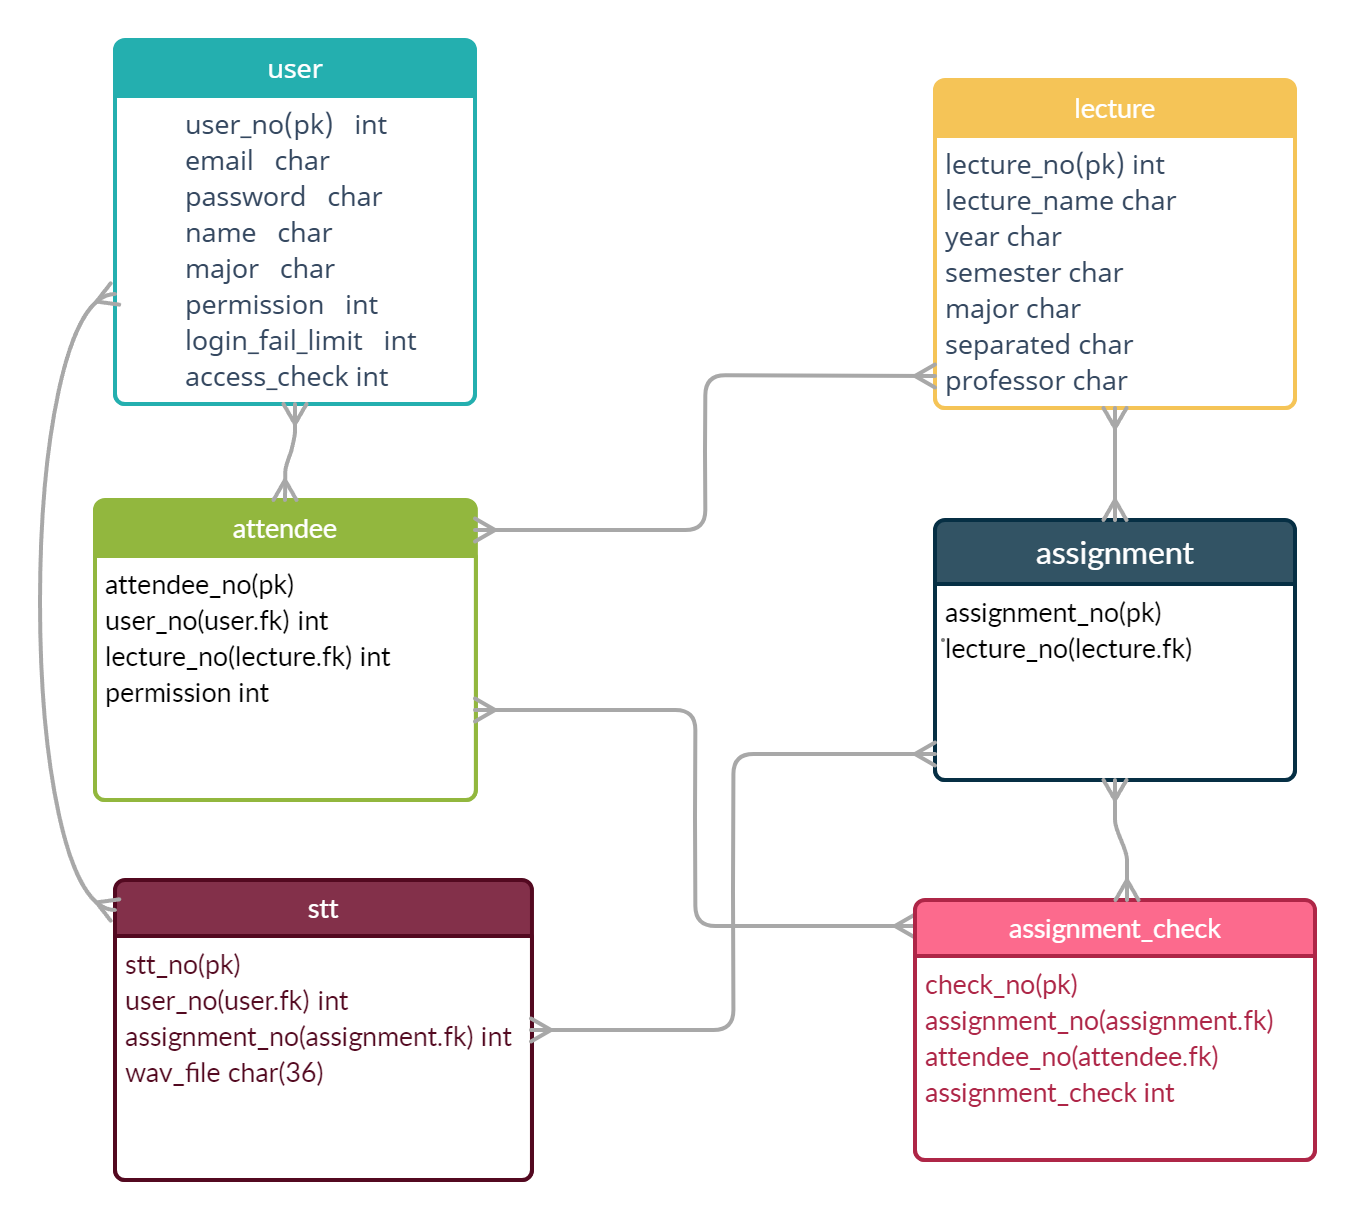
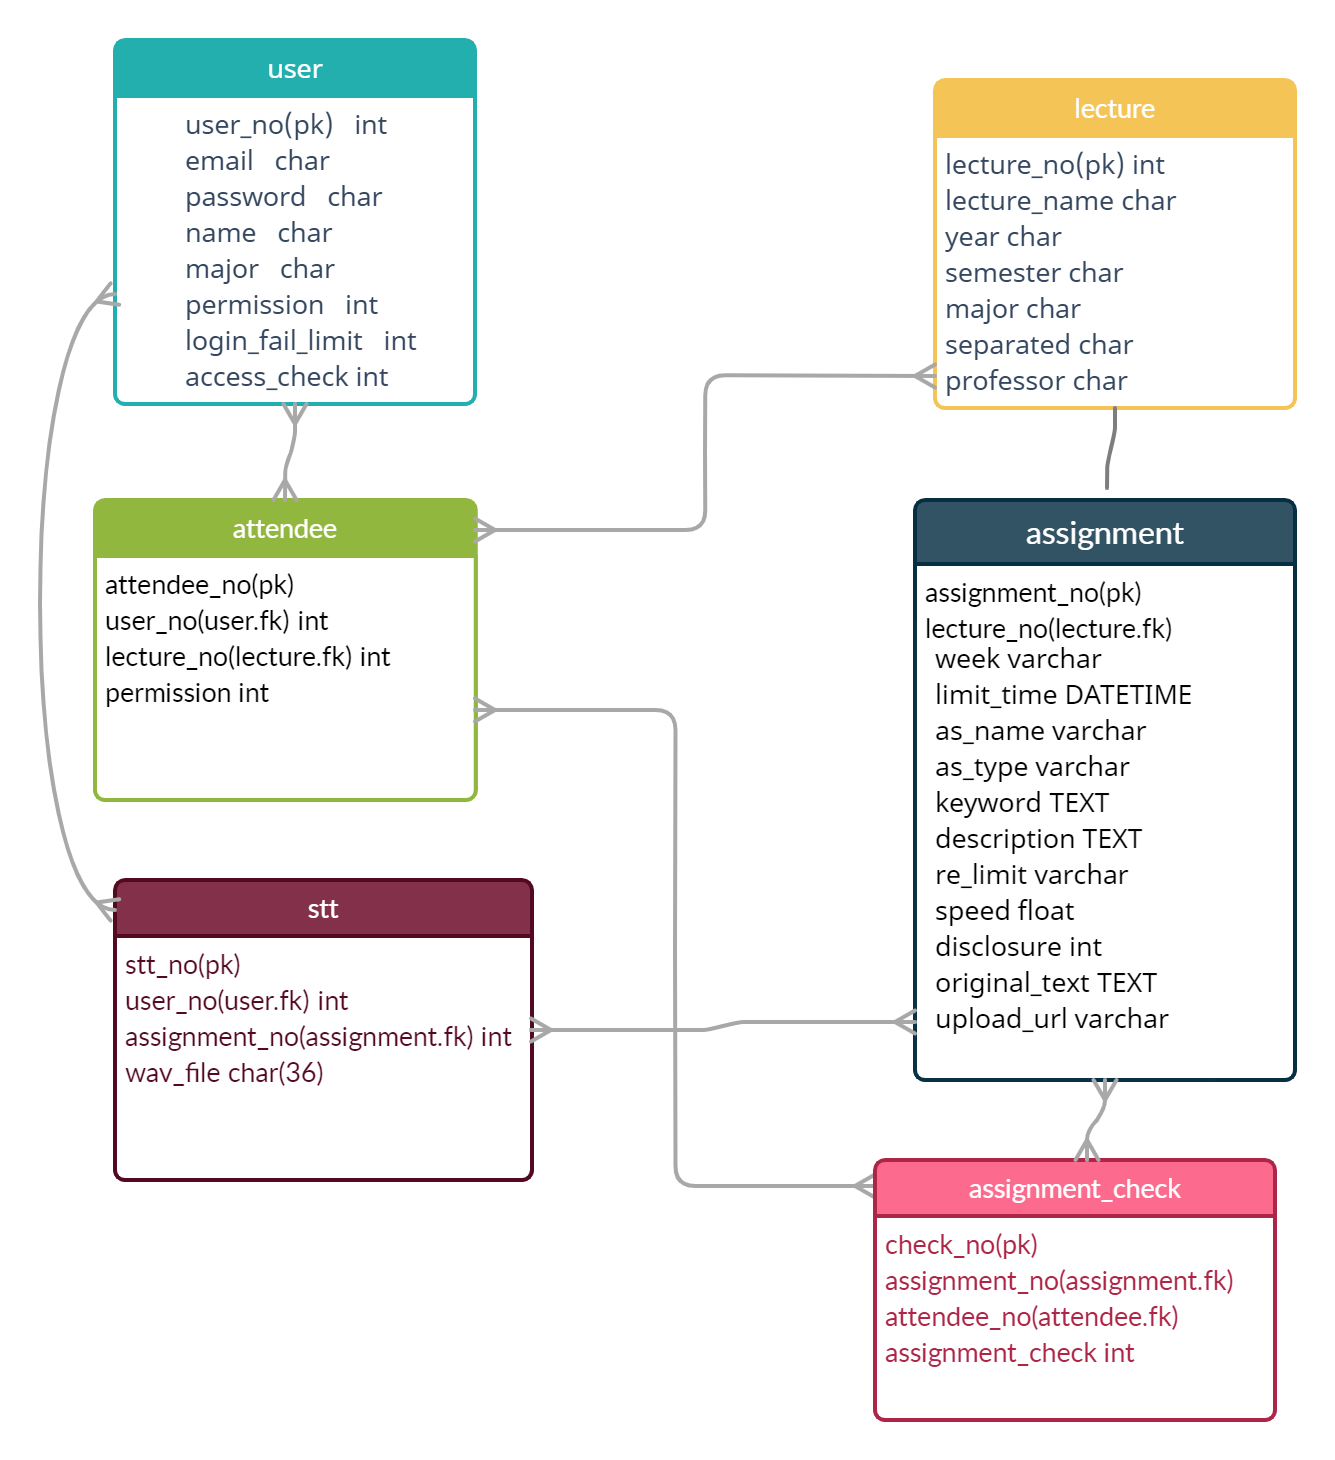
fix: db_structure

Changed region(s): [[0.0307, 0.0, 0.9828, 0.9967], [0.0921, 0.9656, 0.3685, 0.9967]]

diff --git a/server/apis/assignment.py b/server/apis/assignment.py
@@ -1,0 +1,20 @@
+import json
+from pickle import TRUE
+from typing_extensions import Required
+from flask import jsonify,render_template, request, redirect, url_for,abort,make_response
+from flask_restful import reqparse, Resource
+from flask_jwt_extended import (
+    jwt_required, get_jwt_identity, create_access_token, get_jwt
+)
+import re
+from ..services.lecture_service import lecture_listing, make_lecture,modify_lecture,delete_lecture, search_student,major_listing,attendee_add,attendee_listing
+from ..services.login_service import (
+     admin_required, professor_required, assistant_required
+)
+from os import environ as env
+host_url=env["HOST"]
+perm_list={"학생":1,"조교":2,"교수":3}
+
+class Assignment(Resource):
+    def get(self):#과제 목록
+        

diff --git a/server/apis/__init__.py b/server/apis/__init__.py
@@ -20,4 +20,4 @@ def load_api(api_module):
     api_module.add_resource(Prob, '/prob', endpoint='prob')
     api_module.add_resource(Prob_submit, '/prob_submit', endpoint='prob_submit')
     api_module.add_resource(Prob_feedback, '/prob_feedback', endpoint='prob_feedback')
-    api_module.add_resource(Email_check,'/email_check',endpoint='Email_check')
+    api_module.add_resource(Email_check,'/mail_check',endpoint='Email_check')

diff --git a/db.md b/db.md
@@ -8,7 +8,7 @@
 
 ```create table attendee(attendee_no int primary key auto_increment, user_no int,lecture_no int,permission int default 1,foreign key(user_no) references user(user_no) on delete cascade,foreign key(lecture_no) references lecture(lecture_no) on delete cascade);```   
 
-```create table assignment(assignment_no int primary key auto_increment, lecture_no int,foreign key(lecture_no) references lecture(lecture_no) on delete cascade);```   
+```create table assignment(assignment_no int primary key auto_increment, lecture_no int,week varchar(20) not null,limit_time DATETIME not null,as_name varchar(50) not null,as_type varchar(10),keyword TEXT,description TEXT,re_limit varchar(10) not null,speed float not null,disclosure int default 0,original_text TEXT,upload_url varchar(100),foreign key(lecture_no) references lecture(lecture_no) on delete cascade);```   
 
 ```create table assignment_check(check_no int primary key auto_increment, assignment_no int,attendee_no int,assignment_check int default 0,foreign key(assignment_no) references assignment(assignment_no) on delete cascade,foreign key(attendee_no) references attendee(attendee_no) on delete cascade);```   
 
